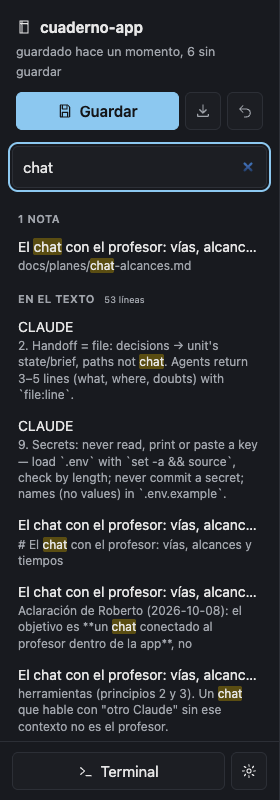
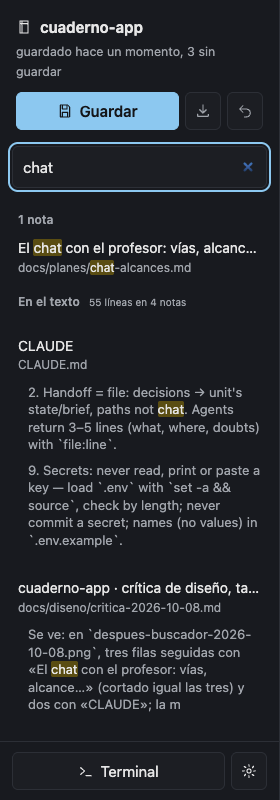
Crítica de diseño de la tanda: cinco objeciones aplicadas
Nombres largos del árbol con puntos suspensivos; rótulos del buscador sin
mayúsculas; la miga alineada con la columna; los h2 más cerca de su texto; el
buscador agrupa las líneas por nota. Crítica en docs/diseno/critica-2026-10-08.md,
capturas del después actualizadas.

Changed region(s): [[0.0571, 0.25, 0.9429, 0.9375], [0.7714, 0.2812, 0.8571, 0.3125], [0.7143, 0.2812, 0.7429, 0.3125]]

diff --git a/public/estilo.css b/public/estilo.css
@@ -84,11 +84,15 @@ input[type="checkbox"], input[type="radio"] { accent-color: var(--acento); width
 #arbol details[open] > summary::before { transform: rotate(90deg); }
 @media (prefers-reduced-motion: no-preference) { #arbol summary::before { transition: transform .15s ease; } }
 #arbol .hoja { display: flex; padding-left: 26px; }   /* el texto alineado con el nombre de la carpeta, tras el chevron */
+#arbol .hoja .nombre { min-width: 0; overflow: hidden; text-overflow: ellipsis; white-space: nowrap; }   /* un nombre largo se corta con puntos suspensivos, no a secas */
+#arbol .hoja small { flex: none; }
 #arbol .hoja small { color: var(--tinta-suave); font-size: 12px; margin-left: auto; padding-left: 8px; }   /* dos notas con el mismo título: el fichero las distingue */
 #lateral.buscando .paginas { display: none; }   /* buscando, los resultados necesitan el sitio */
-#arbol .tramo { margin: 10px 10px 2px; font-size: 11px; font-weight: 600; letter-spacing: .04em; text-transform: uppercase; color: var(--tinta-suave); }
-#arbol .tramo small { font-weight: 400; text-transform: none; letter-spacing: 0; margin-left: 6px; }
+#arbol .tramo { margin: 10px 10px 2px; font-size: 12px; font-weight: 600; color: var(--tinta-suave); }   /* sin mayúsculas ni eyebrow (crítica del 2026-10-07) */
+#arbol .tramo small { font-weight: 400; margin-left: 6px; }
 #arbol .resultado { padding: 6px 10px; display: block; }
+#arbol .resultado.linea { padding: 4px 10px 4px 20px; font-size: 13px; line-height: 1.35; color: var(--tinta-suave); white-space: normal; }   /* las líneas, bajo el título de su nota */
+#arbol .grupo { margin-bottom: 6px; }
 .paginas button { background: none; border: 0; font: inherit; cursor: pointer; width: 100%; justify-content: flex-start; text-align: left; margin: 0; color: var(--tinta); }   /* como los enlaces de encima: alineado a la izquierda, sin borde */
 #arbol button.crear { width: 100%; text-align: left; background: none; border: 1px dashed var(--linea); font: inherit; color: var(--tinta-suave); cursor: pointer; white-space: normal; line-height: 1.45; }
 #arbol button.crear b { color: var(--tinta); }
@@ -101,12 +105,13 @@ input[type="checkbox"], input[type="radio"] { accent-color: var(--acento); width
 .pie-lateral #btn-ajustes { flex: 0 0 auto; padding: 6px 9px; }
 
 #centro { overflow: auto; min-height: 0; min-width: 0; padding: 0 0 40px; }
-.miga-barra { position: sticky; top: 0; background: var(--fondo); z-index: 2; display: flex; align-items: center; gap: 8px; padding: 10px 16px 6px 40px; }
+.miga-barra { position: sticky; top: 0; background: var(--fondo); z-index: 2; display: flex; align-items: center; gap: 8px; padding: 10px 16px 6px max(40px, calc((100% - 76ch - 80px) / 2 + 40px)); }   /* empieza donde empieza la columna de #nota */
 #miga { font-size: 13px; color: var(--tinta-suave); min-width: 0; overflow: hidden; text-overflow: ellipsis; white-space: nowrap; }
 #btn-menu { display: none; padding: 6px 8px; }
 #nota, #panel { max-width: calc(76ch + 80px); margin: 0 auto; padding: 8px 40px 40px; }   /* 76 ch ≈ 90 caracteres por línea: en pantalla grande la columna no se queda estrecha (Roberto, 2026-10-08) */
 #nota h1, #panel h1 { font-size: 28px; line-height: 1.15; margin: 6px 0 18px; font-weight: 700; letter-spacing: -.01em; }
-#nota h2 { font-size: 21px; margin: 32px 0 10px; border-bottom: 1px solid var(--linea); padding-bottom: 4px; }
+#nota h2 { font-size: 21px; margin: 40px 0 8px; border-bottom: 1px solid var(--linea); padding-bottom: 4px; }
+#nota .bloque:has(> h2) + .bloque > :nth-child(2) { margin-top: 0; }   /* el bloque que sigue a un título se pega a él (el primer hijo es .acciones) */
 #nota h3 { font-size: 17px; margin: 24px 0 8px; }
 #nota a { color: var(--acento); padding: 3px 0; }   /* objetivo ≥ 24 px de alto sin cambiar la línea */
 #nota a.wiki { text-decoration: none; border-bottom: 1px dotted var(--acento); }

diff --git a/public/app.js b/public/app.js
@@ -32,7 +32,7 @@ function pintarArbol(lista) {
   const raiz = {};
   for (const p of lista) { let n = raiz; const partes = p.split('/'); partes.forEach((s, i) => { if (i === partes.length - 1) (n.__f ??= []).push(p); else n = (n[s] ??= {}); }); }
   const pintar = (n, abierto) => Object.keys(n).filter(k => k !== '__f').sort((a, b) => a.localeCompare(b, 'es')).map(k => `<details${abierto ? ' open' : ''}><summary title="${esc(k)}">${nombreCarpeta(k)}</summary>${pintar(n[k], false)}</details>`).join('')
-    + (n.__f || []).map(p => { const t = tituloDe(p), repetido = (n.__f || []).some(q => q !== p && tituloDe(q) === t); return `<a class="hoja" href="#/n/${encodeURI(p)}" data-ruta="${esc(p)}" title="${esc(p)}">${esc(t)}${repetido ? `<small>${esc(p.split('/').pop())}</small>` : ''}</a>`; }).join('');
+    + (n.__f || []).map(p => { const t = tituloDe(p), repetido = (n.__f || []).some(q => q !== p && tituloDe(q) === t); return `<a class="hoja" href="#/n/${encodeURI(p)}" data-ruta="${esc(p)}" title="${esc(p)}"><span class="nombre">${esc(t)}</span>${repetido ? `<small>${esc(p.split('/').pop())}</small>` : ''}</a>`; }).join('');
   $('#arbol').innerHTML = lista.length ? pintar(raiz, true) : '<p class="vacio">No hay notas en esta carpeta.</p>';
   pintarCarpetas(lista);
   marcarActiva();
@@ -96,12 +96,13 @@ async function buscar(q) {
   const marcar = s => esc(s).replace(re, m => `<mark>${m}</mark>`);
   // Primero las notas (por título o nombre de fichero: para abrir una, no hace falta leer todo el texto); después las líneas.
   const notas = r.ficheros.map(p => `<a class="resultado" href="#/n/${encodeURI(p)}">${marcar(tituloDe(p))}<small>${marcar(p)}</small></a>`).join('');
-  const lineas = r.lineas.map(l => `<a class="resultado" href="#/n/${encodeURI(l.ruta)}?l=${l.linea}">${esc(tituloDe(l.ruta))}<small>${marcar(l.texto)}</small></a>`).join('');
+  const porNota = new Map(); for (const l of r.lineas) { if (!porNota.has(l.ruta)) porNota.set(l.ruta, []); porNota.get(l.ruta).push(l); }
+  const lineas = [...porNota].map(([ruta, ls]) => `<div class="grupo"><a class="resultado" href="#/n/${encodeURI(ruta)}">${esc(tituloDe(ruta))}<small>${esc(ruta)}</small></a>${ls.map(l => `<a class="resultado linea" href="#/n/${encodeURI(l.ruta)}?l=${l.linea}">${marcar(l.texto)}</a>`).join('')}</div>`).join('');
   const nada = !r.ficheros.length && !r.lineas.length;
   $('#arbol').innerHTML = `<div class="oculto" role="status">${nada ? `nada con «${esc(q.trim())}»` : `${plural(r.ficheros.length, 'nota', 'notas')} y ${plural(r.lineas.length, 'línea', 'líneas')}`}</div>`
     + (nada ? `<p class="vacio">Nada con «${esc(q.trim())}».</p><button type="button" class="resultado crear" data-crear="${esc(q.trim())}"><kbd>Enter</kbd> crea la nota <b>${esc(q.trim())}</b></button>` : '')
     + (r.ficheros.length ? `<h3 class="tramo">${plural(r.ficheros.length, 'nota', 'notas')}</h3>${notas}` : '')
-    + (r.lineas.length ? `<h3 class="tramo">En el texto <small>${plural(r.lineas.length, 'línea', 'líneas')}</small></h3>${lineas}` : '');
+    + (r.lineas.length ? `<h3 class="tramo">En el texto <small>${plural(r.lineas.length, 'línea', 'líneas')} en ${plural(porNota.size, 'nota', 'notas')}</small></h3>${lineas}` : '');
 }
 // Teclado en el buscador: flecha abajo o Enter van al primer resultado (Enter lo abre); Escape vacía y vuelve al árbol.
 $('#buscador').addEventListener('keydown', e => {

diff --git a/docs/planes/plan-vivo.md b/docs/planes/plan-vivo.md
@@ -20,6 +20,7 @@
 - **Favicon (2026-10-08, Roberto: «la parte visual debe estar completa para saber a qué pestaña ir»):** `public/icono.svg`, la libreta de la barra lateral rellena en azul; test del servidor. El título de la pestaña ya era «<cuaderno> · Cuaderno».
 - **Tres notas más de Roberto (2026-10-08):** (1) **nota nueva**: botón «Nueva nota» bajo Comentarios (título y carpeta, por defecto la de la nota abierta) y, en el buscador, cuando no hay resultados, Enter propone crearla con lo escrito; el fichero es `Título.md` con `# Título` (sin `\ / : * ? " < > |`), `POST /api/nota/nueva`. Sin atajo de teclado: Ctrl N y Cmd N son del navegador y no se pueden capturar. (2) `tareas.md` ya no sale en el árbol: su vista es el panel Tareas, que enlaza el fichero. (3) Columna de lectura de 62 ch a 76 ch: en pantalla grande se quedaba en unos 590 px. 50 tests de Node, 18 de navegador.
 - **Un servidor, un cuaderno (2026-10-08):** Roberto no podía comentar en el análisis del chat («la nota cambió» todo el rato). Causa: el servidor del 7331 había pasado a servir el vault demo, abierto desde la pantalla de Cuadernos en otra pestaña (estaba en recientes); la pestaña vieja seguía mirando un cuaderno que ya no estaba. Ahora, al cambiar de cuaderno el servidor avisa por el canal de cambios y cada pestaña lo dice en claro y pasa al cuaderno nuevo. El aviso del 409 dice qué pasó y qué hacer. Recorrido de navegador nuevo (19). Pendiente de diseño: ¿varios cuadernos a la vez en un servidor, uno por pestaña? Hoy no; va al Inbox.
+- **Ronda de crítica de diseño de la tanda (2026-10-08):** `docs/diseno/critica-2026-10-08.md`, 5 objeciones, las 5 aplicadas: nombres largos del árbol con puntos suspensivos; rótulos del buscador sin mayúsculas ni 11 px; la miga alineada con la columna; los `h2` más cerca de su texto que del párrafo anterior (resuelve la nota de Roberto del 2026-10-07 sobre el aire entre titulares); el buscador agrupa las líneas por nota, con el título una vez y su ruta. Nota del crítico, sin cambio: la columna de 76 ch da unos 84 caracteres por línea, por encima del «menos de 80» de ayer; decisión de Roberto de hoy, se mantiene. Capturas del después actualizadas.
 
 **Después:** fase 9 (terminal cuidada, con la vía del chat ya decidida), fase 10 (inbox).
 
@@ -28,7 +29,6 @@
 - Paleta de comandos (modal con Ctrl K) cuando haya varios comandos: Profesor, Guardar, Traer, cambiar de cuaderno. Hoy el buscador de la barra lateral basta (decisión del 2026-10-08, fase 9 o 10).
 - Primer uso (Roberto, 2026-10-08): la barra lateral entera, ¿plegable también en escritorio? Hoy solo a 760 px o menos. Pendiente de que diga si le estorba la barra o solo era el árbol (ya arreglado, ver Ahora).
 - Comentarios de la app vs. notas `@@` de Roberto: misma función, formato distinto (callout `> [!comment] Alumno (fecha)`). Propuesta: un solo formato, el callout, y que el profesor del kit lo recoja; la decisión es del kit (issue en profesor-kit cuando Roberto confirme).
-- Diseño (nota de Roberto, 2026-10-07): revisar los espacios entre titulares en la vista de concepto (captura `despues/02-concepto.png`): hay demasiado aire entre un `h2` y el siguiente bloque.
 - Visor de PDF y de ficheros de texto (JSON, txt): hoy el índice solo lista `.md` y `.html`. Hay ejemplos en el vault demo (`attachments/condiciones-reserva.pdf`, `mapa-estaciones/stations-sample.json`), enlazados desde la reunión del 2026-10-06. Roberto lo preguntó el 2026-10-08: es pequeño y puede adelantarse. El navegador pinta PDF en un iframe sin librería; JSON y txt, como texto preformateado. Solo lectura. Decidir en qué fase entra (encaja en la 10, inbox, donde llegan los PDF de clase).
 - Fase 9: la terminal en Chrome headless se cierra nada más abrirse («[terminal cerrada]»); reproducirlo con un recorrido en `tests/navegador/` (hoy arrancan sin `node-pty`) y, si pasa en un navegador normal, por qué.
 - Pendiente de que Roberto confirme la vía del chat: si acepta la recomendación de `chat-alcances.md`, la fase 12 pasa a ser «chat por channel oficial (`fakechat` embebido, con Telegram, Discord o iMessage opcionales)» y el channel propio queda como fase posterior condicionada.
@@ -41,6 +41,8 @@
 **Contexto:** las decisiones y el orden de fases están abajo; los detalles del kit (formatos, herramientas, reglas) viven en el repo del kit. Para medir diseño otra vez: `pruebas/sonda-navegador.js` lanza las sondas de `ux-ui-audit` y captura con el viewport exacto (solo macOS; los recorridos de navegador de `tests/navegador/` corren en cualquier sistema); el curso de prueba con kit se monta como dice el Inbox. El repo está en GitHub (`rsotor/cuaderno-app`, privado).
 
 **Rondas de abogado del diablo:** 2026-10-07, sobre el punto 0 y el prototipo, 7 objeciones → reorden de fases (§7), tabla caso → kit (§4b) y decisiones nuevas (§6) · 2026-10-07, sobre la crítica de diseño, 7 objeciones → todas atendidas (ver el final de `docs/diseno/critica-2026-10-07.md`).
+
+**Rondas de crítica de diseño:** 2026-10-08, tanda del primer uso (árbol, buscador, páginas, vault), 5 objeciones → las 5 aplicadas (`docs/diseno/critica-2026-10-08.md`).
 
 ## 1. Qué es
 
